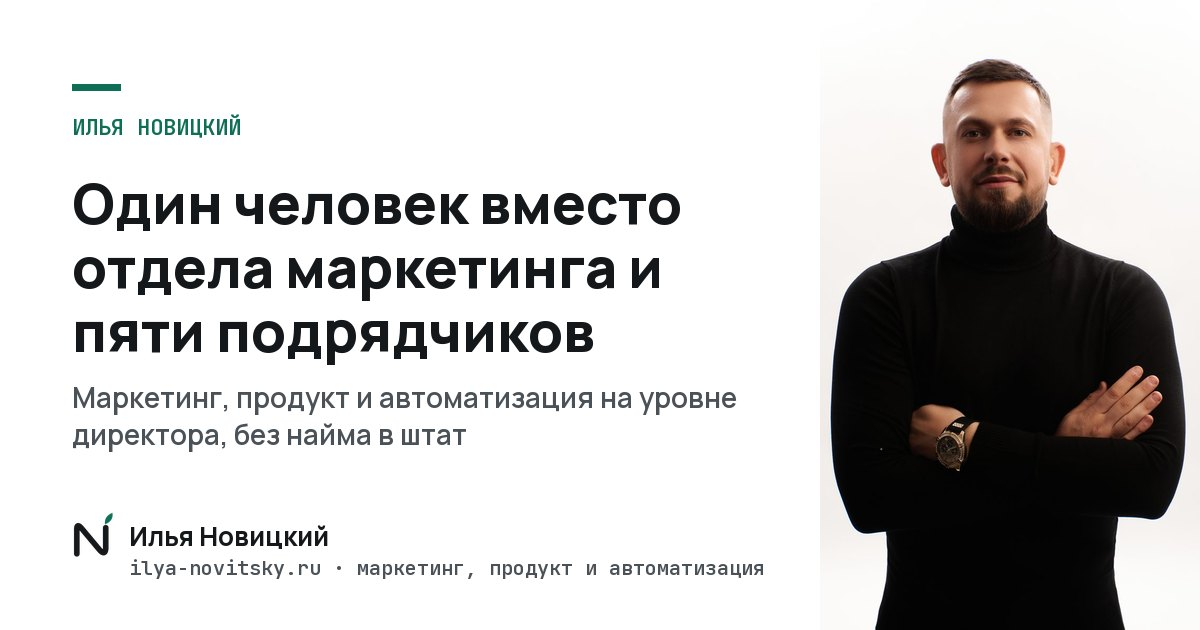
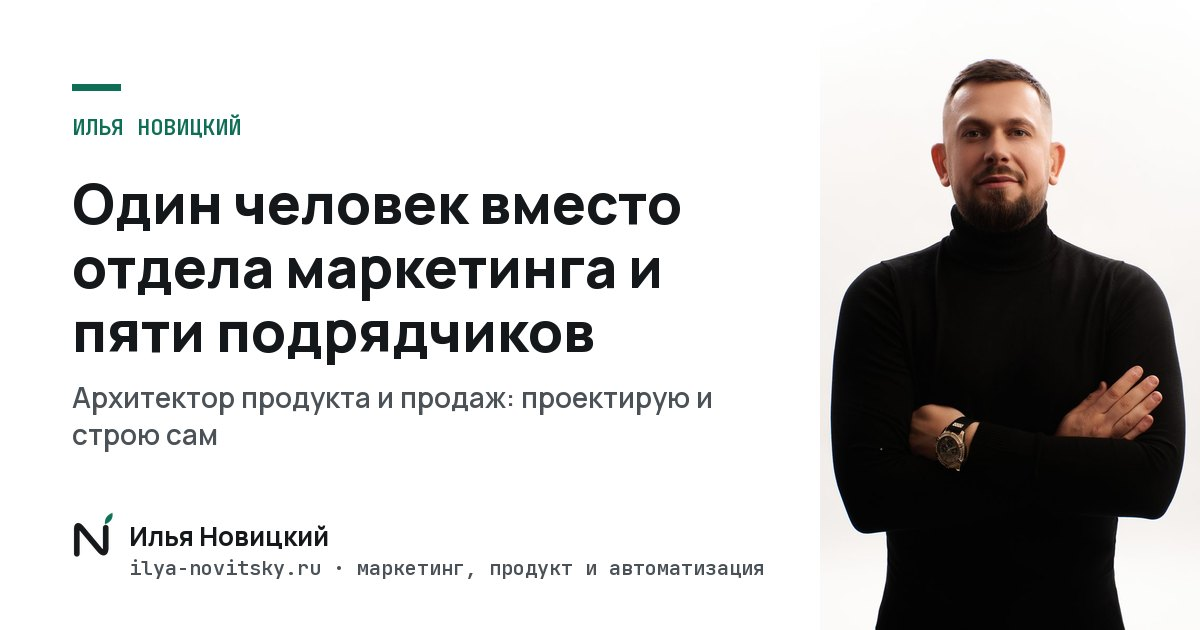
Позиционирование: архитектор продукта и продаж вместо директора по маркетингу; превью главной; метка версии превью (#63)

Changed region(s): [[0.0617, 0.6032, 0.6167, 0.7238]]

diff --git a/content/pages/home.ts b/content/pages/home.ts
@@ -8,11 +8,11 @@ const T = P.testDrive;
 export const home = typo({
 	meta: {
 		title: "Один человек вместо отдела маркетинга и пяти подрядчиков · Илья Новицкий",
-		description: `Маркетинг, продукт и автоматизация на уровне директора по маркетингу, без найма в штат: сайт, контент, продукт и аналитика у одного специалиста. Первый шаг за ${T.term}.`,
+		description: `Архитектор продукта и продаж: проектирую и сам строю сайт, продукт, путь клиента и автоматизацию. 10 лет в продажах.`,
 	},
 
 	hero: {
-		pill: "Уровень директора по маркетингу, без найма в штат",
+		pill: "Архитектор продукта и продаж",
 		h1: "Один человек вместо отдела маркетинга и пяти подрядчиков",
 		lead: "Беру маркетинг на себя целиком: решаю, что делать, сам делаю и каждую неделю показываю, что изменилось в цифрах. Сайт, контент, продукт и автоматизация в одних руках.",
 		sub: "Опыт подсказывает, что строить, AI-инструменты помогают собрать это за дни, а не месяцы.",
@@ -53,7 +53,7 @@ export const home = typo({
 			{ title: "Подрядчиков много, а результата нет", text: "Сайт у студии, тексты у фрилансера, бот у третьего. Дизайнер предлагает новый дизайн, маркетолог ещё рекламу: каждый продаёт своё.", punch: "В итоге вы платите всем, а отвечаете за результат сами." },
 			{ title: "Продукт сделали, а платящих клиентов нет", text: "Месяцы разработки и зарплат, запуск, а люди заходят и уходят. Непонятно, что не так: продукт, цена или проблема, которая никого не волнует.", punch: "Это можно было проверить до разработки, быстрее и дешевле." },
 			{ title: "Всё держится на вас", text: "Без вас не уходит ни одно предложение и не собирается ни один отчёт. Заявки теряются в чатах, а до автоматизации не доходят руки.", punch: "Вы работаете в бизнесе вместо того, чтобы его развивать." },
-			{ title: "Нужен директор по маркетингу, но нанимать страшно", text: "Хороший стоит дорого, искать его долго, а проверить можно только через полгода. Потом ему понадобится команда.", punch: "Поэтому решение откладывается, и всё остаётся как есть." },
+			{ title: "Идея есть, но непонятно, что строить первым", text: "Хочется новый продукт, сервис или направление, но сколько это стоит, кому продавать и с чего начать, ясности нет.", punch: "Поэтому решение откладывается, и всё остаётся как есть." },
 		],
 		fable: { q: "Когда в товарищах согласья нет, на лад их дело не пойдёт", src: "И. А. Крылов, «Лебедь, Рак и Щука». Про подрядчиков, которые тянут в разные стороны" },
 		closing: "Во всех четырёх историях решение одно: нужен один человек, который собирает всё в систему и отвечает за неё целиком.",
@@ -101,7 +101,7 @@ export const home = typo({
 		steps: [
 			{ label: `Шаг 1 · Аудит и план действий · ${T.term}`, title: "Узнаете, где теряете деньги и что делать первым", text: "Берём одну задачу: сайт не продаёт, заявки теряются или непонятно, с чего начать. На руках письменный разбор: что не так, что делать по порядку и сколько стоит следующий шаг.", price: T.price, note: "видите, как я думаю, до больших денег" },
 			{ label: `Шаг 2 · Чертёж, план роста · ${P.blueprint.term}`, title: "Получите план: что делать, в каком порядке и сколько это стоит", text: "Карта всего, что у вас есть: сайт, контент, путь клиента, CRM. Где утекают деньги, что строить, сколько вложить и расчёт, когда это может окупиться. Для нового продукта прототип, который можно показать клиентам.", price: `от ${P.blueprint.price}`, note: "стоимость аудита входит в цену, план ваш" },
-			{ label: `Шаг 3 · Ведение · от ${P.management.term}`, title: "Веду маркетинг как директор, вы каждую неделю видите цифры", text: "Роль директора по маркетингу без найма в штат: цели на месяц согласуем вместе, дальше решаю и делаю я. Сайт, контент, путь клиента до оплаты, автоматизация и аналитика. Один созвон и отчёт в неделю.", price: `от ${P.management.price}`, unit: "в месяц", note: "без найма отдела и пяти подрядчиков" },
+			{ label: `Шаг 3 · Ведение · от ${P.management.term}`, title: "Веду продукт и продажи сам, вы каждую неделю видите цифры", text: "Цели на месяц согласуем вместе, дальше решаю и делаю я. Сайт, контент, путь клиента до оплаты, автоматизация и аналитика. Один созвон и отчёт в неделю.", price: `от ${P.management.price}`, unit: "в месяц", note: "без найма отдела и пяти подрядчиков" },
 		],
 		more: "Что входит в каждый шаг и чего не будет →",
 		after: "Идти строго по порядку не обязательно. Задача уже ясна? Начнём сразу с чертежа. Система работает, но вести её некому? Начнём с ведения. Аудит и чертёж можно заказать отдельно, а ведение я беру в один проект за раз, с полным фокусом на вашем проекте.",
@@ -155,9 +155,10 @@ export const home = typo({
 		label: "Кто я",
 		h2: "Сам строю то, что советую",
 		photo: { src: "/images/site/ilya-main.jpg", alt: "Илья Новицкий" },
-		lead: "Илья Новицкий, 10 лет в продажах. Маркетинг, продажи и продукт на уровне директора по маркетингу, без найма в штат. Мои советы проверены на своих продуктах и проектах клиентов, а не взяты из курса.",
+		lead: "Илья Новицкий, 10 лет в продажах. Архитектор продукта и продаж: сначала проектирую, потом строю сам. Делаю то, что обещал, и не обещаю того, что от меня не зависит.",
 		points: [
 			{ b: "Отвечаю за решения, а не за строчки кода", t: "Я не программист: код пишут AI-инструменты, а я решаю, что строить и зачем это вашему бизнесу." },
+			{ b: "Не руковожу отделом и не провожу планёрки", t: "Проектирую и строю в фокусе, с AI-инструментами вместо команды. Мои советы проверены на своих продуктах и проектах клиентов." },
 			{ b: "Объясняю сложное простыми словами", t: "Написал две книги: «Нейро-воронка» о продажах и AI и «Ростовщик» о психологии людей, третья в работе." },
 		],
 		pathLabel: "Мой путь в продажах",
@@ -180,7 +181,7 @@ export const home = typo({
 		yesTitle: "Подойду, если",
 		yes: [
 			{ b: "Маркетинг держится на вас", t: "или на разных исполнителях, которые не связаны между собой" },
-			{ b: "Нужен директор, но не нужен штат", t: "без зарплаты, налогов и команды под него" },
+			{ b: "Нужен тот, кто спроектирует и построит сам", t: "продукт и продажи, без команды под него" },
 			{ b: "Есть идея, но страшно вкладываться", t: "проверим её до больших денег" },
 			{ b: "Нужен один ответственный", t: "за всю систему, а не за свой кусок" },
 		],

diff --git a/content/pages/kak-my-rabotaem.ts b/content/pages/kak-my-rabotaem.ts
@@ -44,13 +44,13 @@ const steps: ({ id: string; title: string; meta: string; lead: string; cards: Ca
 		id: "vedenie", title: "Ведение", meta: `помесячно, от ${P.management.term} · от ${P.management.price} в месяц`, alt: true, cards: [],
 		num: "03",
 		label: "Ведение",
-		h2: "Директор по маркетингу в вашей команде, без найма в штат",
-		lead: "Беру маркетинг на себя в роли директора на частичной занятости. Цели на месяц согласуем вместе, а дальше я сам решаю, что делать, делаю и каждую неделю показываю, что изменилось в цифрах.",
-		gets: { label: "Каждую неделю и каждый месяц", items: ["план на неделю и отчёт: что сделано, что изменилось в цифрах и что дальше;", "работающие части системы: сайт, контент, путь клиента до оплаты, автоматизация, аналитика;", "разбор трафика: какие вложения работают, а какие сгорают;", "итоги месяца в цифрах и цели на следующий."] },
+		h2: "Продукт и продажи ведёт тот, кто их спроектировал",
+		lead: "Это не директор, который закупает трафик и руководит отделом. Я сам развиваю продукт, сайт, путь клиента до оплаты и автоматизацию. Цели на месяц согласуем вместе, а дальше я сам решаю, что делать, делаю и каждую неделю показываю, что изменилось в цифрах.",
+		gets: { label: "Каждую неделю и каждый месяц", items: ["продукт или сервис: доработки, новые функции, прототипы;", "план на неделю и отчёт: что сделано, что изменилось в цифрах и что дальше;", "работающие части системы: сайт, контент, путь клиента до оплаты, автоматизация, аналитика;", "разбор трафика: какие вложения работают, а какие сгорают;", "итоги месяца в цифрах и цели на следующий."] },
 		how: { label: "Границы роли", steps: [{ b: "Цели на месяц вместе, инициатива моя.", t: "Не жду задач, а предлагаю и делаю." }, { b: "Один плановый созвон в неделю.", t: "Остальное в переписке, связь в рабочие дни." }, { b: "Объём роли записан в договоре.", t: "Нужно больше, расширяем роль, а не считаем часы." }, { b: "Беру одного клиента на ведение.", t: "Другую часть недели строю свои продукты и проверяю на них то, что приношу вам." }] },
 		need: "короткие «да» или «поправь», доступы и ваше участие там, где нужна экспертиза о продукте.",
 		fitTitle: "Подойдёт, если",
-		fit: ["система уже есть или собрана по чертежу, а вести её некому;", "нужен директор по маркетингу, но нанимать в штат пока рано или дорого;", "хотите, чтобы за маркетинг целиком отвечал один человек, а не вы сводили исполнителей."],
+		fit: ["система уже есть или собрана по чертежу, а вести её некому;", "нужен человек, который и продукт развивает, и продажи строит, а нанимать двоих в штат рано;", "хотите, чтобы за маркетинг целиком отвечал один человек, а не вы сводили исполнителей."],
 		notTitle: "Чего не будет",
 		not: ["не закупаю рекламу и не веду рекламные кабинеты;", "не нанимаю и не контролирую ваших сотрудников;", "не на связи по вечерам и в выходные;", "продажи не гарантирую: отвечаю за свою работу и бьюсь за итог."],
 		price: `**От ${P.management.price} в месяц**, минимум 3 месяца, оплата перед каждым месяцем. Точная сумма зависит от объёма роли и называется до старта. Если система уже работает, можно начать сразу с ведения: первые две недели уйдут на разбор изнутри.`,
@@ -74,7 +74,7 @@ export const process = typo({
 			steps: [
 				{ href: "#test-drive", name: "Аудит и план действий", meta: `${P.testDrive.term.replace("дня", "рабочих дня")} · ${P.testDrive.price}`, gets: "письменный разбор одной задачи" },
 				{ href: "#chertezh", name: "Чертёж системы", meta: `${P.blueprint.term} · от ${P.blueprint.price}`, gets: "документ проекта, для продукта ещё и прототип" },
-				{ href: "#vedenie", name: "Ведение", meta: `помесячно, от ${P.management.term} · от ${P.management.price} в месяц`, gets: "роль директора по маркетингу и отчёт каждую неделю" },
+				{ href: "#vedenie", name: "Ведение", meta: `помесячно, от ${P.management.term} · от ${P.management.price} в месяц`, gets: "продукт и продажи в одних руках, отчёт каждую неделю" },
 			],
 			note: "Начать можно с любого шага. Каждый шаг оплачивается перед стартом, полные условия в [оферте](/offer).",
 		},

diff --git a/content/pages/faq.ts b/content/pages/faq.ts
@@ -5,10 +5,10 @@ import { prices as P } from "@/config/prices";
 
 export const faq = typo([
 	{ q: "Почему аудит платный?", a: `**Потому что это настоящая работа, а не презентация.** Я разбираюсь в вашем бизнесе и отдаю письменный разбор. Он остаётся у вас, даже если дальше не пойдём, а если пойдёте, его стоимость войдёт в цену плана.` },
-	{ q: "А если результата не будет?", a: "**Продажи не может гарантировать никто, и я тоже.** Я отвечаю за качество и сроки своей работы и бьюсь за итог: каждую неделю видно, что сделано и что изменилось в цифрах, а если что-то не работает, меняем план. Платите по шагам, поэтому рискуете только одним шагом. Условия в договоре или [оферте](/offer)." },
+	{ q: "А если результата не будет?", a: "**Продажи не может гарантировать никто, и я тоже.** Делаю то, что обещал, и не обещаю того, что от меня не зависит. Я отвечаю за качество и сроки своей работы и бьюсь за итог: каждую неделю видно, что сделано и что изменилось в цифрах, а если что-то не работает, меняем план. Платите по шагам, поэтому рискуете только одним шагом. Условия в договоре или [оферте](/offer)." },
 	{ q: "Вы работаете один. Что если с вами что-то случится?", a: "**Всё, что мы делаем, остаётся у вас.** Документы, прототипы, код и доступы, плюс каждую неделю план и отчёт. Проект не держится в одной голове." },
 	{ q: "Сколько времени это займёт у меня?", a: "**Немного.** На аудит нужен один разговор и ответы на вопросы. Дальше от вас короткие «да» или «поправь»." },
-	{ q: "Почему не нанять директора по маркетингу?", a: "**Директор стоит дороже и сам обычно не делает.** Ему нужна команда, а вам придётся платить и проверять всех. Здесь думает и делает один человек, один платёж в месяц." },
+	{ q: "Почему не нанять директора по маркетингу?", a: "**Директор руководит: людьми, трафиком, подрядчиками. Я проектирую и строю.** Сам собираю продукт, сайт, путь клиента и автоматизацию, с AI-инструментами вместо команды. Отдел под меня нанимать не нужно, а общение — один созвон в неделю и переписка." },
 	{ q: "Сколько я на этом сэкономлю?", a: "**Посчитаем на аудите.** Сколько процесс стоит сейчас с учётом зарплат, подрядчиков и вашего времени, и сколько будет после. Если экономии нет, так и скажу." },
 	{ q: "Сейчас все делают с AI. Может, я сам?", a: "**Для простых вещей да.** Сложно не собрать, а собрать нужное и довести до денег. И AI нужен не всегда: иногда хватает навести порядок в процессе или поправить сайт. Хотите делать сами, но с опорой, для этого есть [наставничество](/nastavnichestvo)." },
 ]);

diff --git a/content/pages/common.ts b/content/pages/common.ts
@@ -6,7 +6,7 @@ import { prices as P } from "@/config/prices";
 export const common = typo({
 	site: {
 		title: "Илья Новицкий · маркетинг, продукт и автоматизация",
-		description: "Маркетинг, продукт и автоматизация на уровне директора по маркетингу, без найма в штат: сайт, контент, продукт и аналитика у одного специалиста. Первый шаг за 3–4 дня.",
+		description: "Архитектор продукта и продаж: проектирую и сам строю сайт, продукт, путь клиента и автоматизацию. 10 лет в продажах.",
 		jobTitle: "Маркетинг, продукт и автоматизация",
 	},
 
@@ -48,7 +48,7 @@ export const common = typo({
 			{ q: "Подрядчиков несколько, а результата нет", a: `**Аудит и план действий.** Разберу, что из сделанного работает, а что нет, и что делать дальше.` },
 			{ q: "Есть идея продукта, но страшно вкладываться", a: `**Аудит и план действий.** Разберём, стоит ли её строить, для кого и на чём она может зарабатывать, до того как тратить на разработку.` },
 			{ q: "Хочу навести порядок во всём и расти", a: `**Чертёж, план роста.** Что есть, где утекают деньги, что делать по порядку и расчёт окупаемости. Сомневаетесь? Начните с аудита, его стоимость войдёт в цену чертежа.` },
-			{ q: "Всё работает, но вести это некому", a: `**Ведение.** Беру маркетинг на себя в роли директора: цели на месяц вместе, каждую неделю созвон и отчёт.` },
+			{ q: "Всё работает, но вести это некому", a: `**Ведение.** Веду продукт и продажи сам: цели на месяц вместе, каждую неделю созвон и отчёт.` },
 		],
 		mentor: { q: "Хочу собрать продукт сам", a: `**Наставничество, ${P.mentor.price} в месяц.** Проведу по шагам, а собираете вы сами.`, under: "один на один, ваш проект", button: "Страница «Наставничество» →" },
 	},

diff --git a/src/lib/seo.ts b/src/lib/seo.ts
@@ -23,7 +23,7 @@ export function pageMeta(raw: PageMeta, path: string, og: string, opts: { absolu
 		alternates: { canonical: path },
 		openGraph: {
 			type: opts.type || "website", locale: "ru_RU", siteName: site.name, url: path, title: ogTitle, description: m.description,
-			images: [{ url: `/og/${og}.jpg`, width: 1200, height: 630, alt: ogTitle }],
+			images: [{ url: `/og/${og}.jpg?v=20261014`, width: 1200, height: 630, alt: ogTitle }],
 			...(opts.modified ? { modifiedTime: opts.modified } : {}),
 		},
 		twitter: { card: "summary_large_image" },
@@ -51,7 +51,7 @@ export function servicesLd() {
 		...(unit ? { priceSpecification: { "@type": "UnitPriceSpecification", price: rub(price), priceCurrency: "RUB", unitText: unit } } : {}),
 	});
 	return {
-		"@context": "https://schema.org", "@type": "Service", name: "Маркетинг, продукт и автоматизация на уровне директора по маркетингу",
+		"@context": "https://schema.org", "@type": "Service", name: "Проектирование и развитие продукта и продаж",
 		provider: person, areaServed: "RU", url: site.url,
 		hasOfferCatalog: {
 			"@type": "OfferCatalog", name: "Шаги работы",

diff --git a/content/pages/blog.ts b/content/pages/blog.ts
@@ -28,7 +28,7 @@ export const blog = typo({
 		updated: "обновлено",
 		mins: "мин чтения",
 		toc: "В статье",
-		author: "Помогаю бизнесу с маркетингом, продуктом и автоматизацией на уровне директора по маркетингу, без найма в штат. Пять лет строил системы продаж для клиентов, а с апреля 2026 года собрал четыре своих продукта.",
+		author: "Архитектор продукта и продаж: проектирую и строю сам. Пять лет строил системы продаж для клиентов, а с апреля 2026 года собрал четыре своих продукта.",
 		about: "Подробнее обо мне →",
 		channel: "Канал в Telegram →",
 		related: "Читать дальше",

diff --git a/src/config/site.ts b/src/config/site.ts
@@ -4,7 +4,7 @@ export const site = {
 	name: "Илья Новицкий",
 	role: "маркетинг, продукт и автоматизация",
 	og: "/og/home.jpg",
-	roleFooter: "маркетинг, продукт и автоматизация на уровне директора, без найма в штат",
+	roleFooter: "архитектор продукта и продаж",
 	metrikaId: 112582890,
 	contacts: {
 		telegram: "https://t.me/Ilya_novator",

diff --git a/scripts/og/generate_og.py b/scripts/og/generate_og.py
@@ -140,7 +140,7 @@ seen, made = set(), 0
 for f in sorted(glob.glob(f'{OUT}/**/*.html', recursive=True)):
     t = open(f, encoding='utf-8').read()
     if f.endswith('/404.html') or 'http-equiv="refresh"' in t: continue  # 404 и переадресации: превью по умолчанию, своё не рисуем
-    img = re.search(r'property="og:image" content="[^"]*/og/([a-z0-9-]+)\.jpg"', t)
+    img = re.search(r'property="og:image" content="[^"]*/og/([a-z0-9-]+)\.jpg(?:\?v=\d+)?"', t)
     ttl = re.search(r'property="og:title" content="([^"]*)"', t)
     if not img or not ttl: continue
     name, title = img.group(1), html.unescape(ttl.group(1))

diff --git a/docs/DECISIONS.md b/docs/DECISIONS.md
@@ -56,3 +56,5 @@
 | 14.10.2026 | «Как мы работаем», первый экран: «Вы не покупаете год работы вслепую» + карта трёх шагов (срок · цена · что на руках), «рабочих дня», оплата перед стартом, ссылка на оферту | решение Ильи 14.10 |
 | 14.10.2026 | Ведение — договор на роль (директор по маркетингу на частичной занятости): роль, часы в неделю, цели на месяц, инициатива внутри роли; от 150 000 ₽; чертёж до ведения не обязателен. Оферту поправить под роль | решение Ильи 14.10: не прописывать каждую задачу и не ограничивать инициативу |
 | 14.10.2026 | Ведение на сайте — без часов: границы роли (один плановый созвон в неделю, связь в рабочие дни, объём роли фиксирован в договоре, больше — расширяем роль), один клиент на ведении, остальное время — свои продукты. Часы в неделю (≈15) — только в договоре | решение Ильи 14.10: не путать с почасовкой; полная вовлечённость, но с границами |
+| 14.10.2026 | Позиционирование: «Архитектор продукта и продаж: проектирую и строю сам» (плашка, «Кто я», описание, подвал, превью, разметка, блог, оферта); «директор по маркетингу» — только как ценовое сравнение (блок 03, вопрос «Почему не нанять директора?» с ответом «директор руководит, я проектирую и строю»); боль «нанимать директора страшно» заменена на «идея есть, но непонятно, что строить первым» | решение Ильи 14.10: роль директора — про общение, руководство и трафик, это не он; сила — проектировать и строить в фокусе (тест Big Five: дисциплина 95%) |
+| 14.10.2026 | К адресу картинки превью добавлена метка версии (?v=ГГГГММДД), генератор и проверка её понимают | чтобы Telegram и TenChat взяли новое превью |

diff --git a/content/legal/offer.md b/content/legal/offer.md
@@ -18,7 +18,7 @@
 
 2.3. **Чертёж системы** — описание цифровой части бизнеса Заказчика или одного продукта: текущее состояние, чего не хватает, порядок работ, сроки и экономика; для продукта — с прототипом.
 
-2.4. **Ведение** — помесячная работа Исполнителя в роли директора по маркетингу Заказчика на частичной занятости: Исполнитель сам определяет, какие работы выполнять для целей, согласованных на месяц, в пределах согласованного объёма роли.
+2.4. **Ведение** — помесячная работа Исполнителя по развитию продукта и продаж Заказчика на частичной занятости: Исполнитель сам определяет, какие работы выполнять для целей, согласованных на месяц, в пределах согласованного объёма роли.
 
 2.5. **Наставничество** — помесячное сопровождение Заказчика, который сам создаёт свой продукт: встречи, ответы на вопросы, инструкции по шагам, проверка этапов.
 
